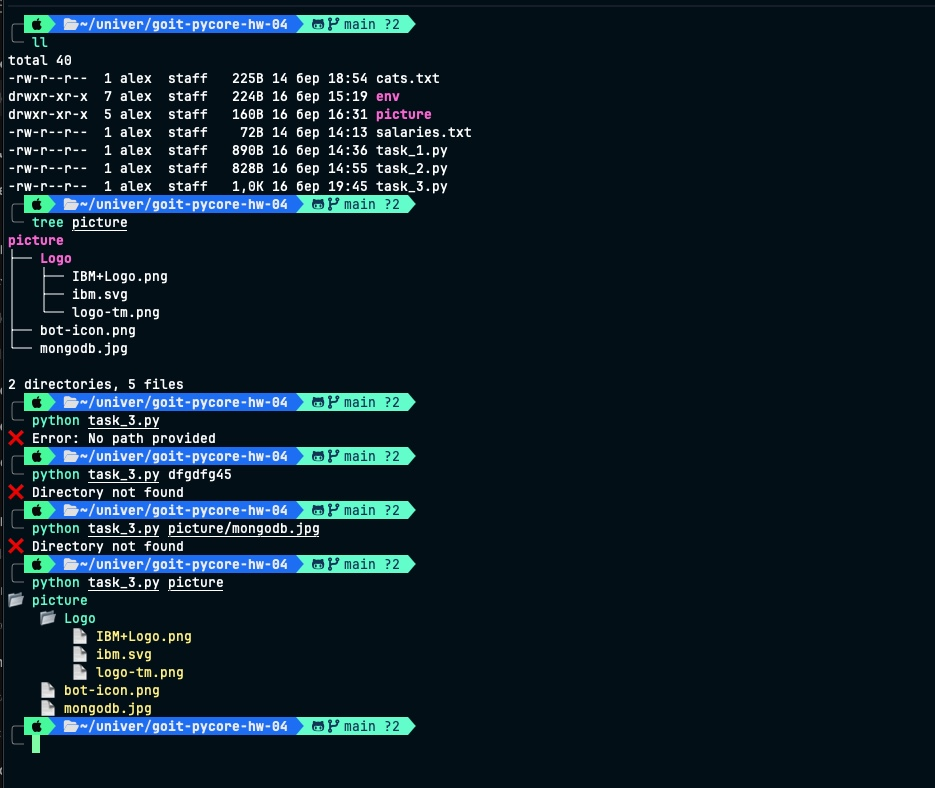
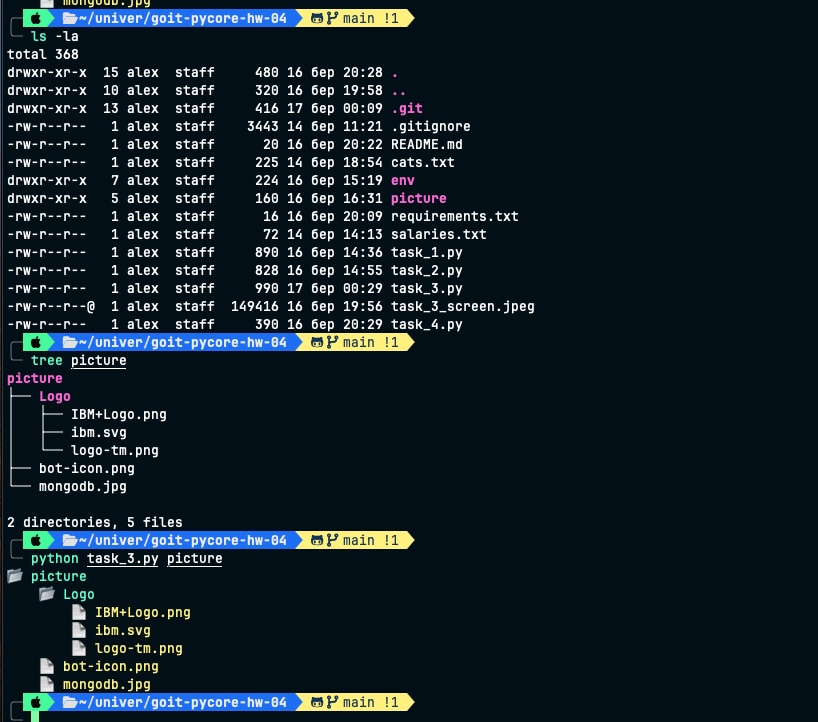
fix sort

Changed region(s): [[0.0, 0.0, 0.6418, 1.0]]

diff --git a/task_3.py b/task_3.py
@@ -5,7 +5,9 @@ from colorama import Fore, Style
 
 
 def list_directory(path: Path, prefix: str = "    ") -> None:
-    for child in sorted(path.iterdir()):
+    dirs = sorted([name for name in path.iterdir() if name.is_dir()])
+    files = sorted([name for name in path.iterdir() if name.is_file()])
+    for child in dirs + files:
         if child.is_dir():
             print(prefix + Fore.GREEN + "📂 " + child.name + Style.RESET_ALL)
             list_directory(path=child, prefix=prefix + "    ")
